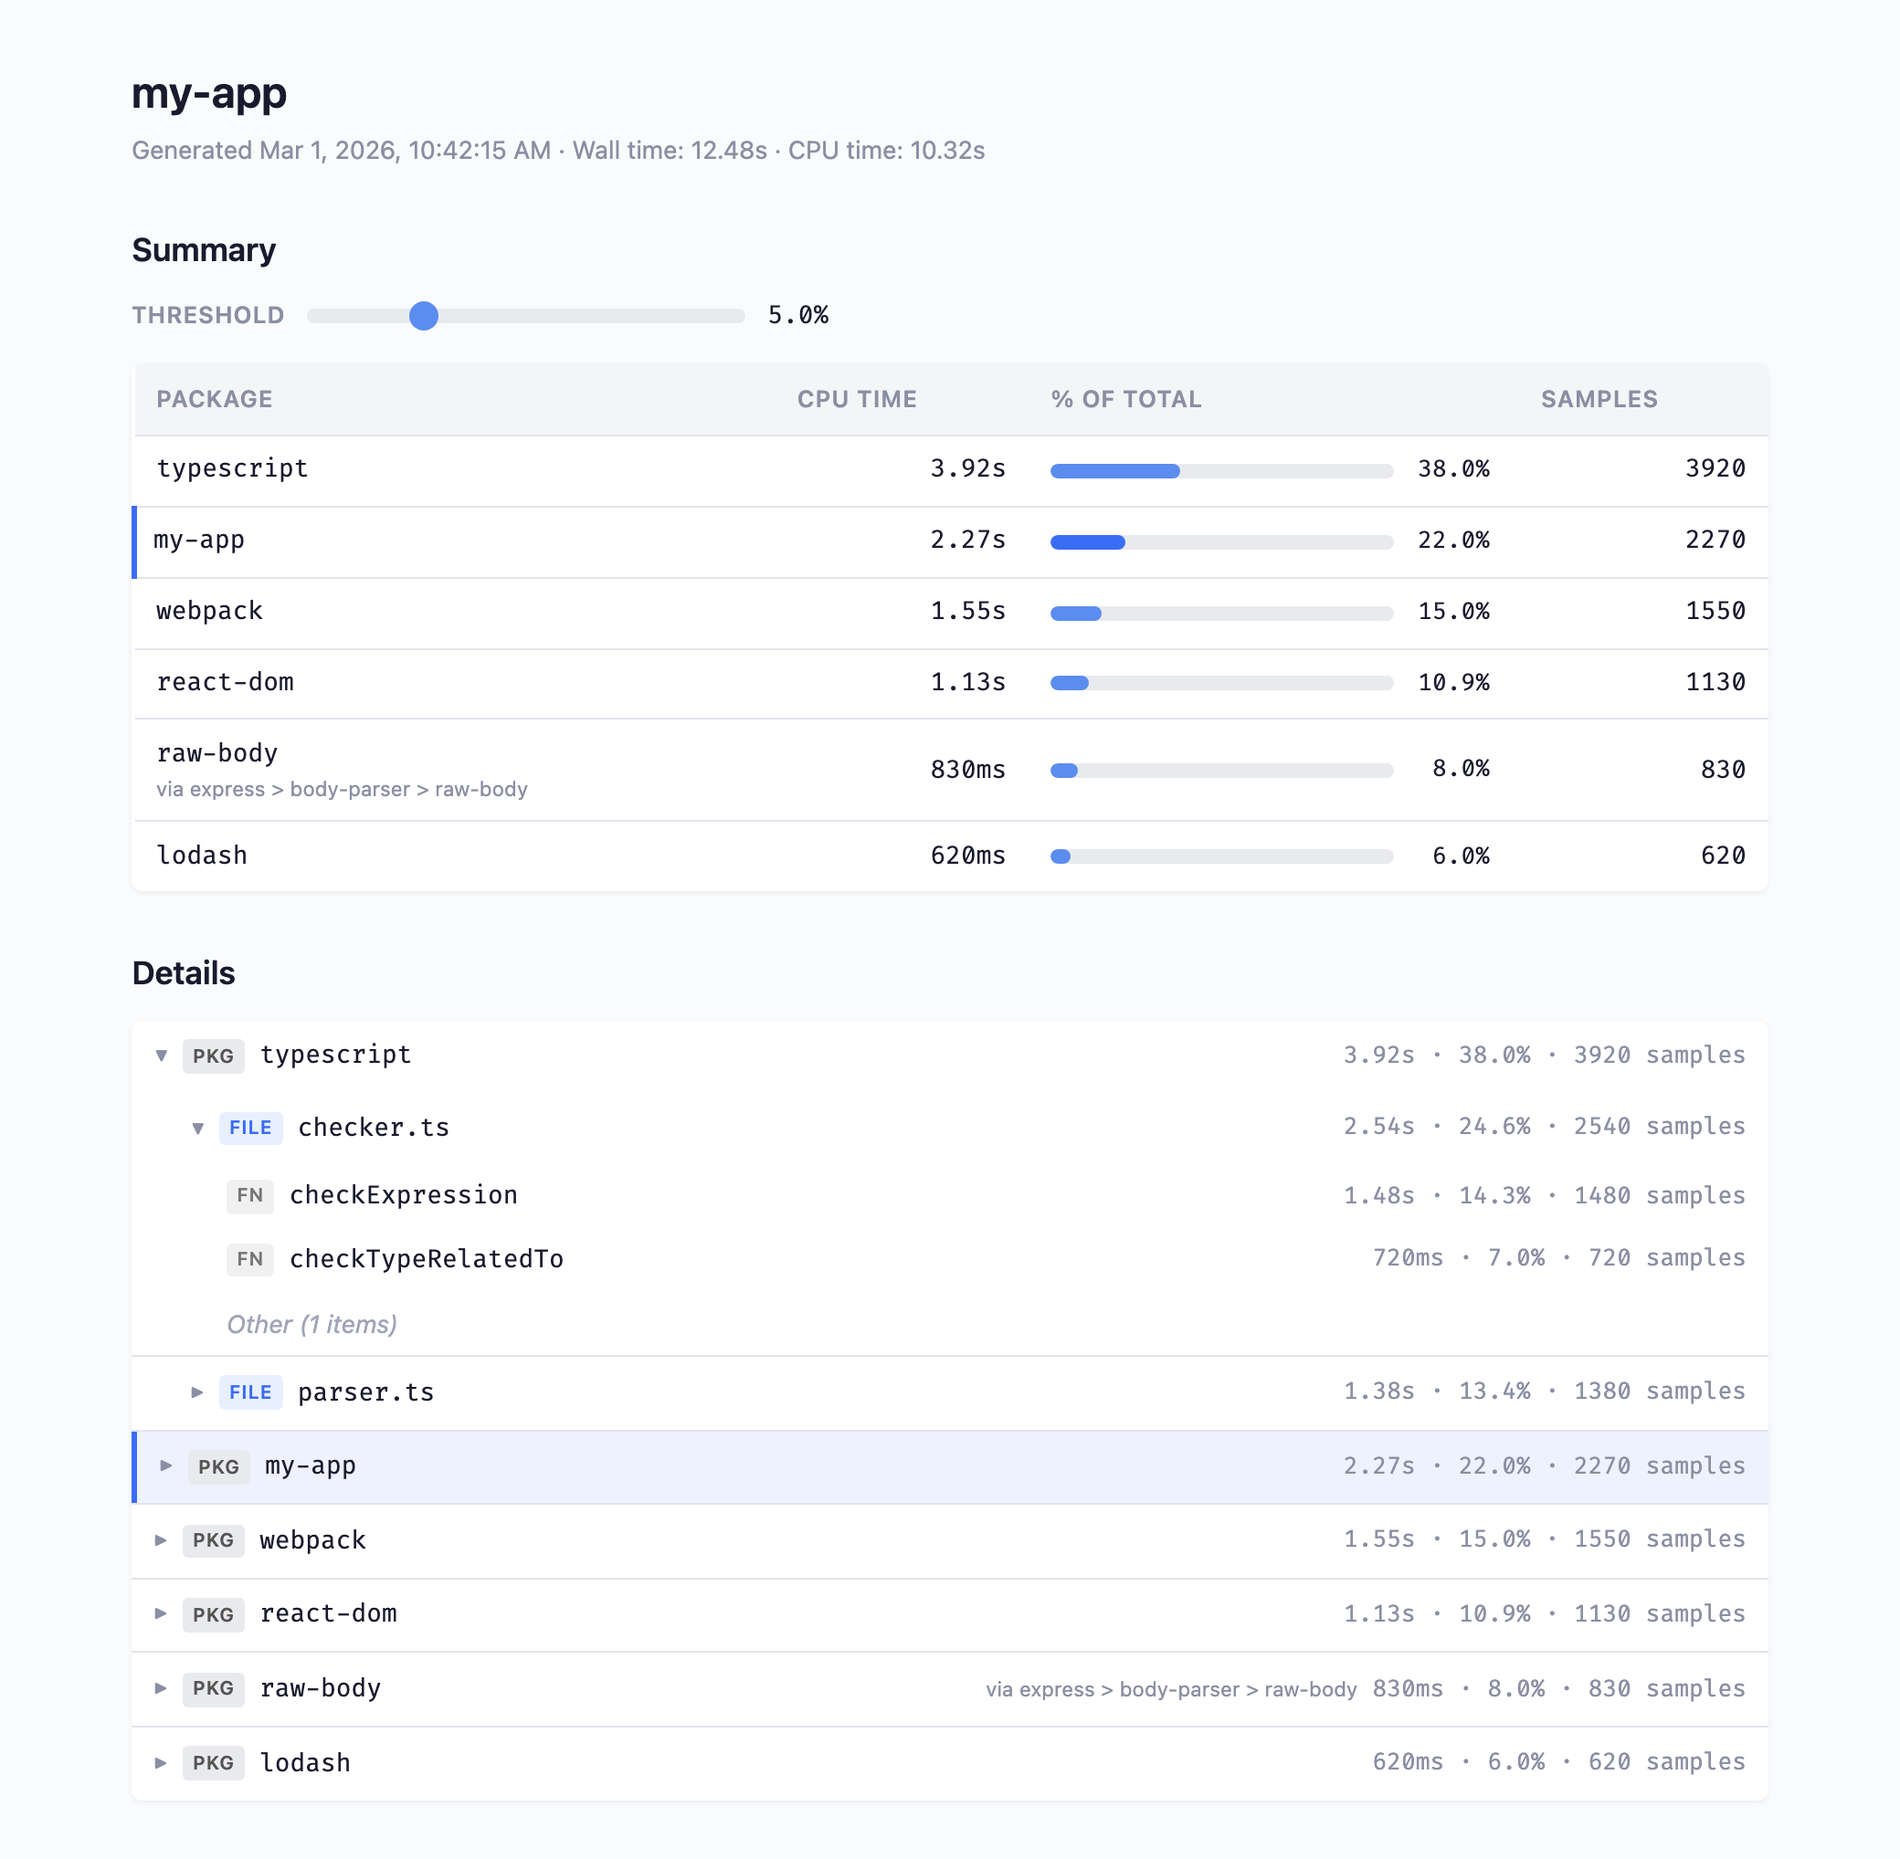
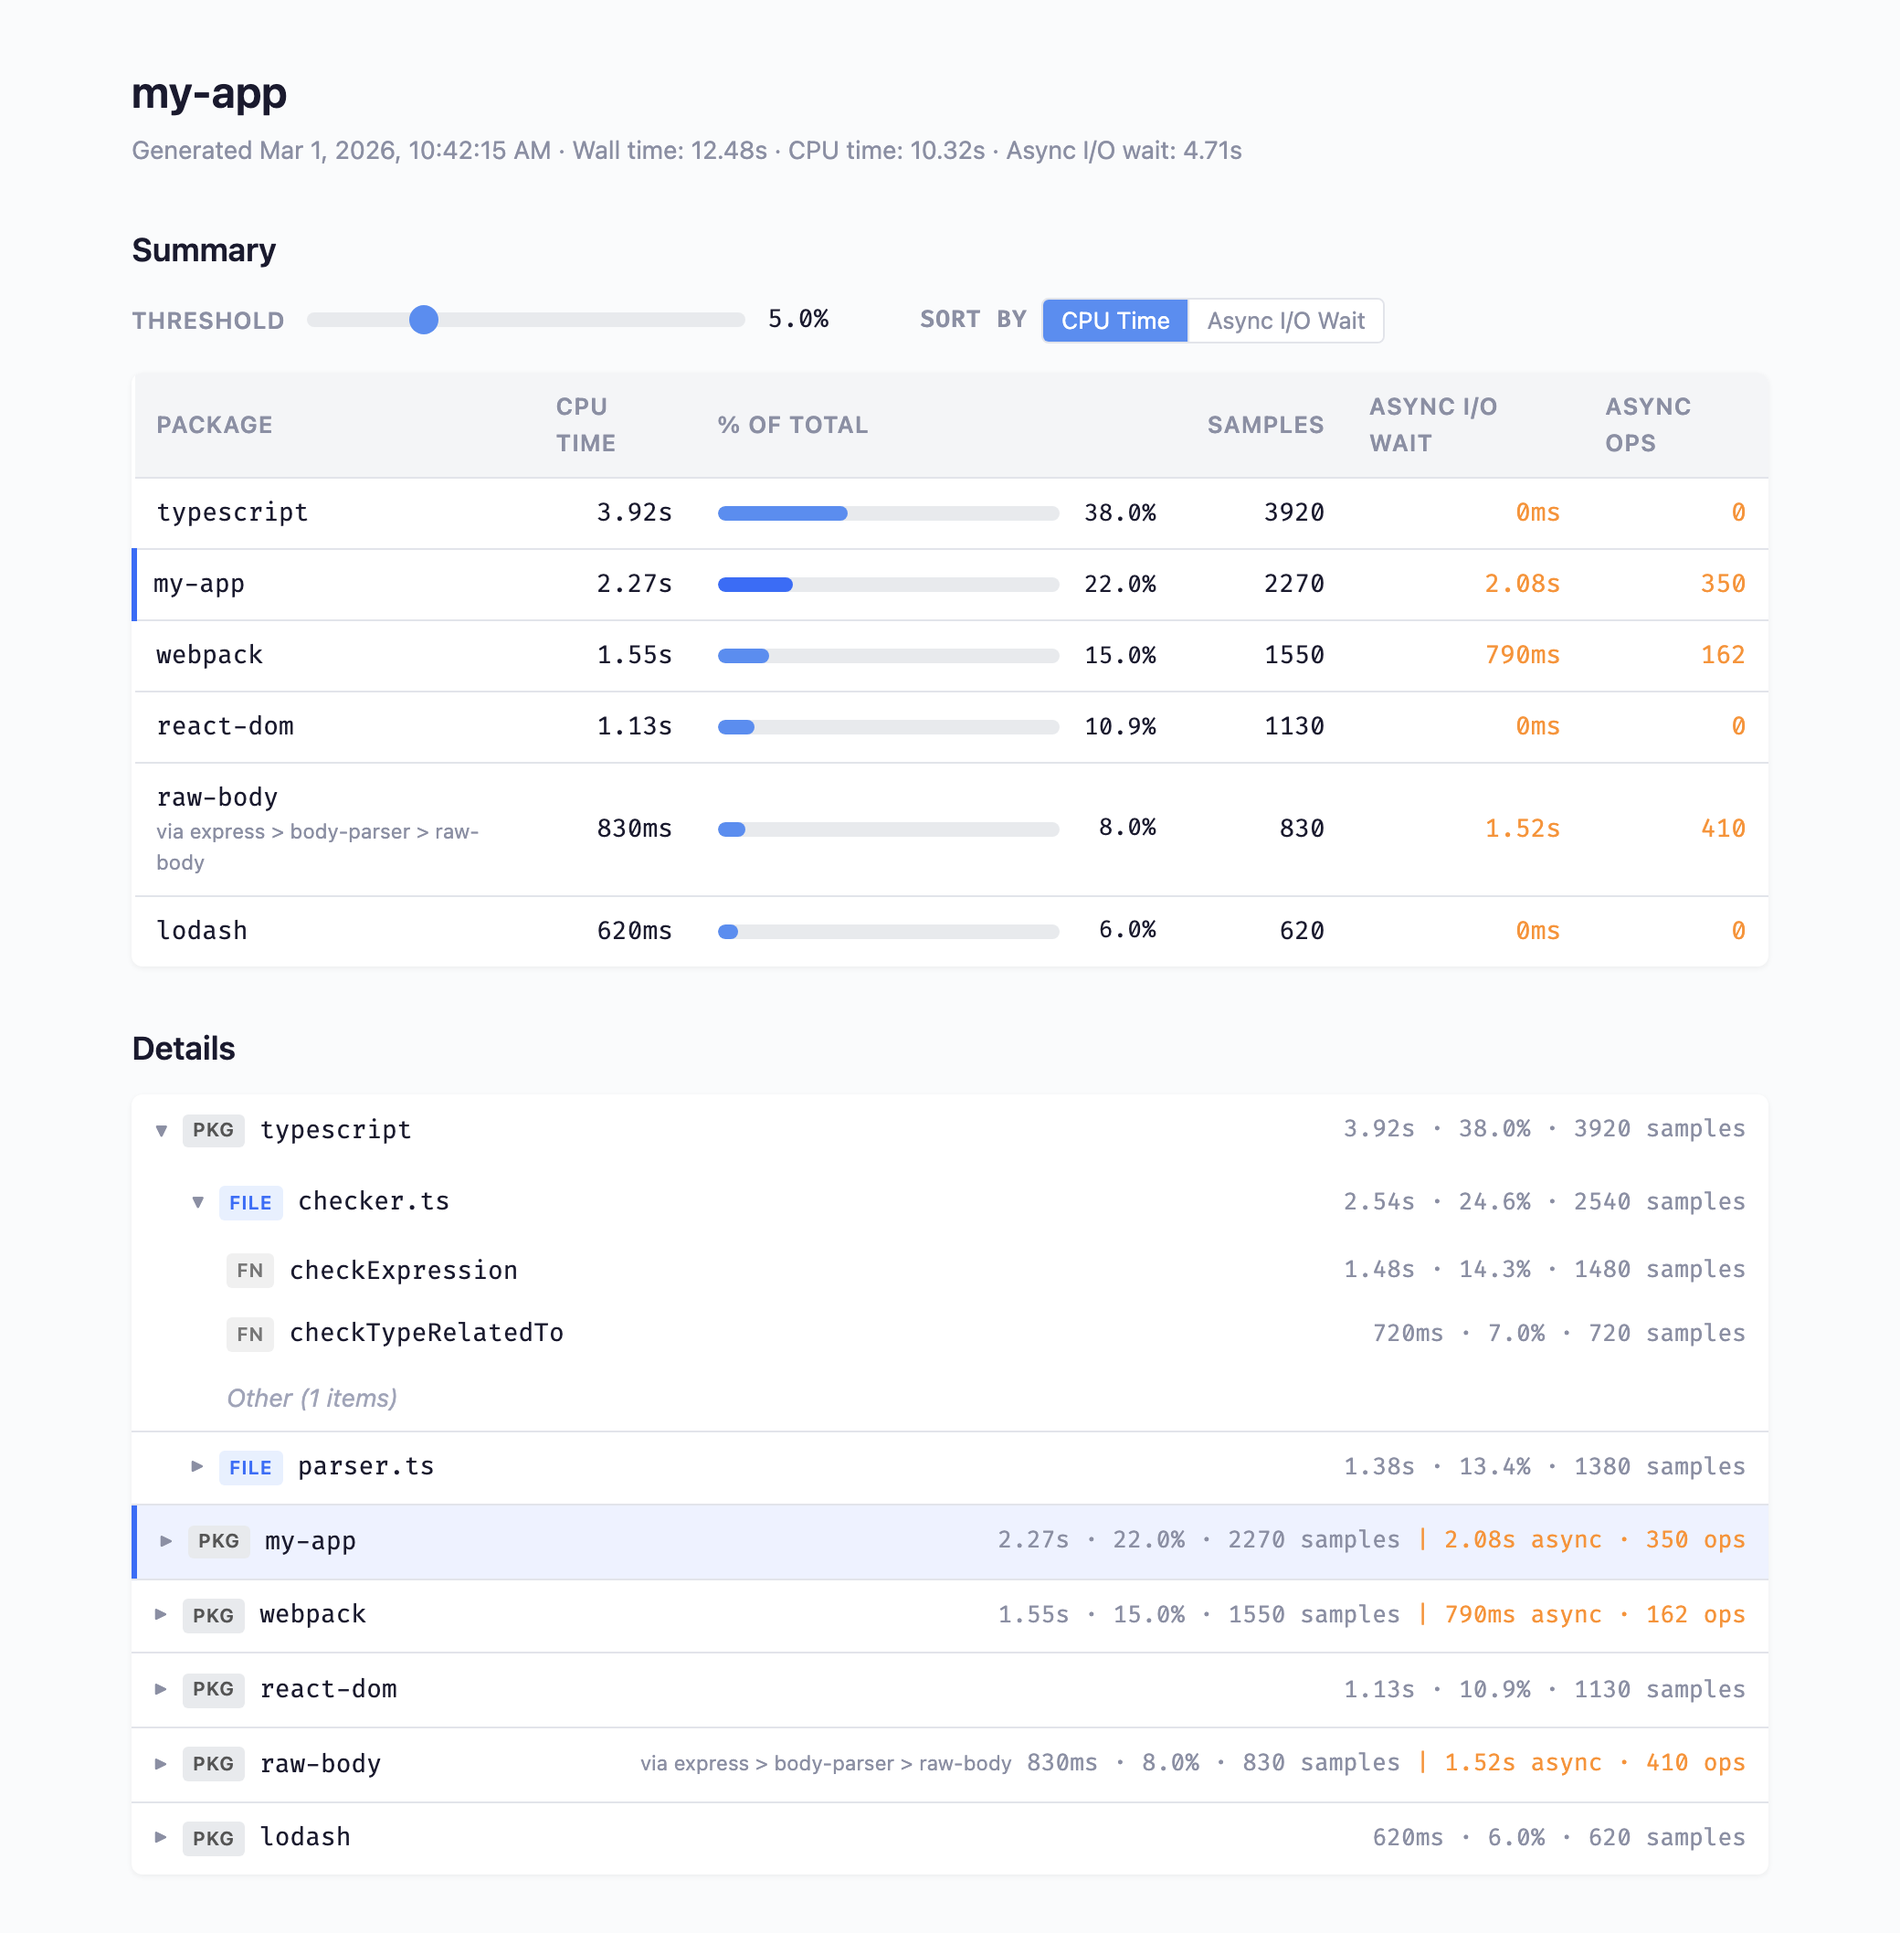
feat(quick-002): add async I/O tracking data to screenshot
- Add realistic async wait times for I/O-heavy packages (my-app DB queries,
  raw-body stream reads, webpack file operations)
- CPU-only packages (typescript, react-dom, lodash) show 0ms async
- Screenshot now showcases Async I/O Wait column, Async Ops column,
  Sort by toggle, and per-node async stats in the tree

diff --git a/scripts/generate-screenshot.ts b/scripts/generate-screenshot.ts
@@ -18,12 +18,18 @@ const PROJECT_ROOT = resolve(import.meta.dirname, '..');
 // Synthetic report data — crafted to showcase all report features
 // ---------------------------------------------------------------------------
 
-function fn(name: string, timeUs: number, pct: number, samples: number): FunctionEntry {
-  return { name, timeUs, pct, sampleCount: samples };
+interface AsyncInfo {
+  asyncTimeUs: number;
+  asyncPct: number;
+  asyncOpCount: number;
 }
 
-function file(name: string, timeUs: number, pct: number, samples: number, functions: FunctionEntry[]): FileEntry {
-  return { name, timeUs, pct, sampleCount: samples, functions, otherCount: 0 };
+function fn(name: string, timeUs: number, pct: number, samples: number, async_?: AsyncInfo): FunctionEntry {
+  return { name, timeUs, pct, sampleCount: samples, ...async_ };
+}
+
+function file(name: string, timeUs: number, pct: number, samples: number, functions: FunctionEntry[], async_?: AsyncInfo): FileEntry {
+  return { name, timeUs, pct, sampleCount: samples, functions, otherCount: 0, ...async_ };
 }
 
 function pkg(
@@ -32,7 +38,7 @@ function pkg(
   pct: number,
   samples: number,
   files: FileEntry[],
-  opts: { isFirstParty?: boolean; depChain?: string[] } = {},
+  opts: { isFirstParty?: boolean; depChain?: string[]; async?: AsyncInfo } = {},
 ): PackageEntry {
   return {
     name,
@@ -43,14 +49,16 @@ function pkg(
     files,
     otherCount: 0,
     depChain: opts.depChain,
+    ...(opts.async),
   };
 }
 
-// Total CPU: ~10.3 seconds
+// Total CPU: ~10.3 seconds, total async I/O wait: ~4.7 seconds
 const totalTimeUs = 10_320_000;
+const totalAsyncTimeUs = 4_710_000;
 
 const packages: PackageEntry[] = [
-  // 1. typescript — dominant at ~38%
+  // 1. typescript — dominant CPU at ~38%, no async (pure CPU work)
   pkg('typescript', 3_920_000, 38.0, 3920, [
     file('checker.ts', 2_540_000, 24.6, 2540, [
       fn('checkExpression', 1_480_000, 14.3, 1480),
@@ -63,30 +71,30 @@ const packages: PackageEntry[] = [
     ]),
   ], { isFirstParty: false }),
 
-  // 2. my-app — first party at ~22%
+  // 2. my-app — first party at ~22% CPU, significant async from DB queries
   pkg('my-app', 2_270_000, 22.0, 2270, [
     file('src/server.ts', 1_350_000, 13.1, 1350, [
-      fn('handleRequest', 820_000, 7.9, 820),
+      fn('handleRequest', 820_000, 7.9, 820, { asyncTimeUs: 340_000, asyncPct: 7.2, asyncOpCount: 48 }),
       fn('validateInput', 530_000, 5.1, 530),
-    ]),
+    ], { asyncTimeUs: 340_000, asyncPct: 7.2, asyncOpCount: 48 }),
     file('src/db/queries.ts', 920_000, 8.9, 920, [
-      fn('findUserById', 580_000, 5.6, 580),
-      fn('updateSession', 340_000, 3.3, 340),
-    ]),
-  ], { isFirstParty: true }),
+      fn('findUserById', 580_000, 5.6, 580, { asyncTimeUs: 1_260_000, asyncPct: 26.8, asyncOpCount: 215 }),
+      fn('updateSession', 340_000, 3.3, 340, { asyncTimeUs: 480_000, asyncPct: 10.2, asyncOpCount: 87 }),
+    ], { asyncTimeUs: 1_740_000, asyncPct: 36.9, asyncOpCount: 302 }),
+  ], { isFirstParty: true, async: { asyncTimeUs: 2_080_000, asyncPct: 44.2, asyncOpCount: 350 } }),
 
-  // 3. webpack — ~15%
+  // 3. webpack — ~15% CPU, some async from file reads
   pkg('webpack', 1_550_000, 15.0, 1550, [
     file('lib/Compilation.js', 980_000, 9.5, 980, [
       fn('seal', 620_000, 6.0, 620),
-      fn('addModule', 360_000, 3.5, 360),
-    ]),
+      fn('addModule', 360_000, 3.5, 360, { asyncTimeUs: 210_000, asyncPct: 4.5, asyncOpCount: 34 }),
+    ], { asyncTimeUs: 210_000, asyncPct: 4.5, asyncOpCount: 34 }),
     file('lib/NormalModuleFactory.js', 570_000, 5.5, 570, [
-      fn('create', 570_000, 5.5, 570),
-    ]),
-  ]),
+      fn('create', 570_000, 5.5, 570, { asyncTimeUs: 580_000, asyncPct: 12.3, asyncOpCount: 128 }),
+    ], { asyncTimeUs: 580_000, asyncPct: 12.3, asyncOpCount: 128 }),
+  ], { async: { asyncTimeUs: 790_000, asyncPct: 16.8, asyncOpCount: 162 } }),
 
-  // 4. react-dom — ~11%
+  // 4. react-dom — ~11% CPU, no async (render is synchronous)
   pkg('react-dom', 1_130_000, 11.0, 1130, [
     file('cjs/react-dom.development.js', 740_000, 7.2, 740, [
       fn('reconcileChildren', 480_000, 4.7, 480),
@@ -97,15 +105,15 @@ const packages: PackageEntry[] = [
     ]),
   ]),
 
-  // 5. raw-body — ~8%, transitive dep with chain
+  // 5. raw-body — ~8% CPU, heavy async from reading request streams
   pkg('raw-body', 830_000, 8.0, 830, [
     file('index.js', 830_000, 8.0, 830, [
-      fn('readStream', 530_000, 5.1, 530),
+      fn('readStream', 530_000, 5.1, 530, { asyncTimeUs: 1_520_000, asyncPct: 32.3, asyncOpCount: 410 }),
       fn('getDecoder', 300_000, 2.9, 300),
-    ]),
-  ], { depChain: ['express', 'body-parser', 'raw-body'] }),
+    ], { asyncTimeUs: 1_520_000, asyncPct: 32.3, asyncOpCount: 410 }),
+  ], { depChain: ['express', 'body-parser', 'raw-body'], async: { asyncTimeUs: 1_520_000, asyncPct: 32.3, asyncOpCount: 410 } }),
 
-  // 6. lodash — ~6%
+  // 6. lodash — ~6% CPU, no async (pure CPU work)
   pkg('lodash', 620_000, 6.0, 620, [
     file('lodash.js', 620_000, 6.0, 620, [
       fn('cloneDeep', 380_000, 3.7, 380),
@@ -117,6 +125,7 @@ const packages: PackageEntry[] = [
 const data: ReportData = {
   timestamp: 'Mar 1, 2026, 10:42:15 AM',
   totalTimeUs,
+  totalAsyncTimeUs,
   wallTimeUs: 12_480_000, // slightly higher than CPU
   packages,
   otherCount: 2, // implies 2 more packages below threshold
